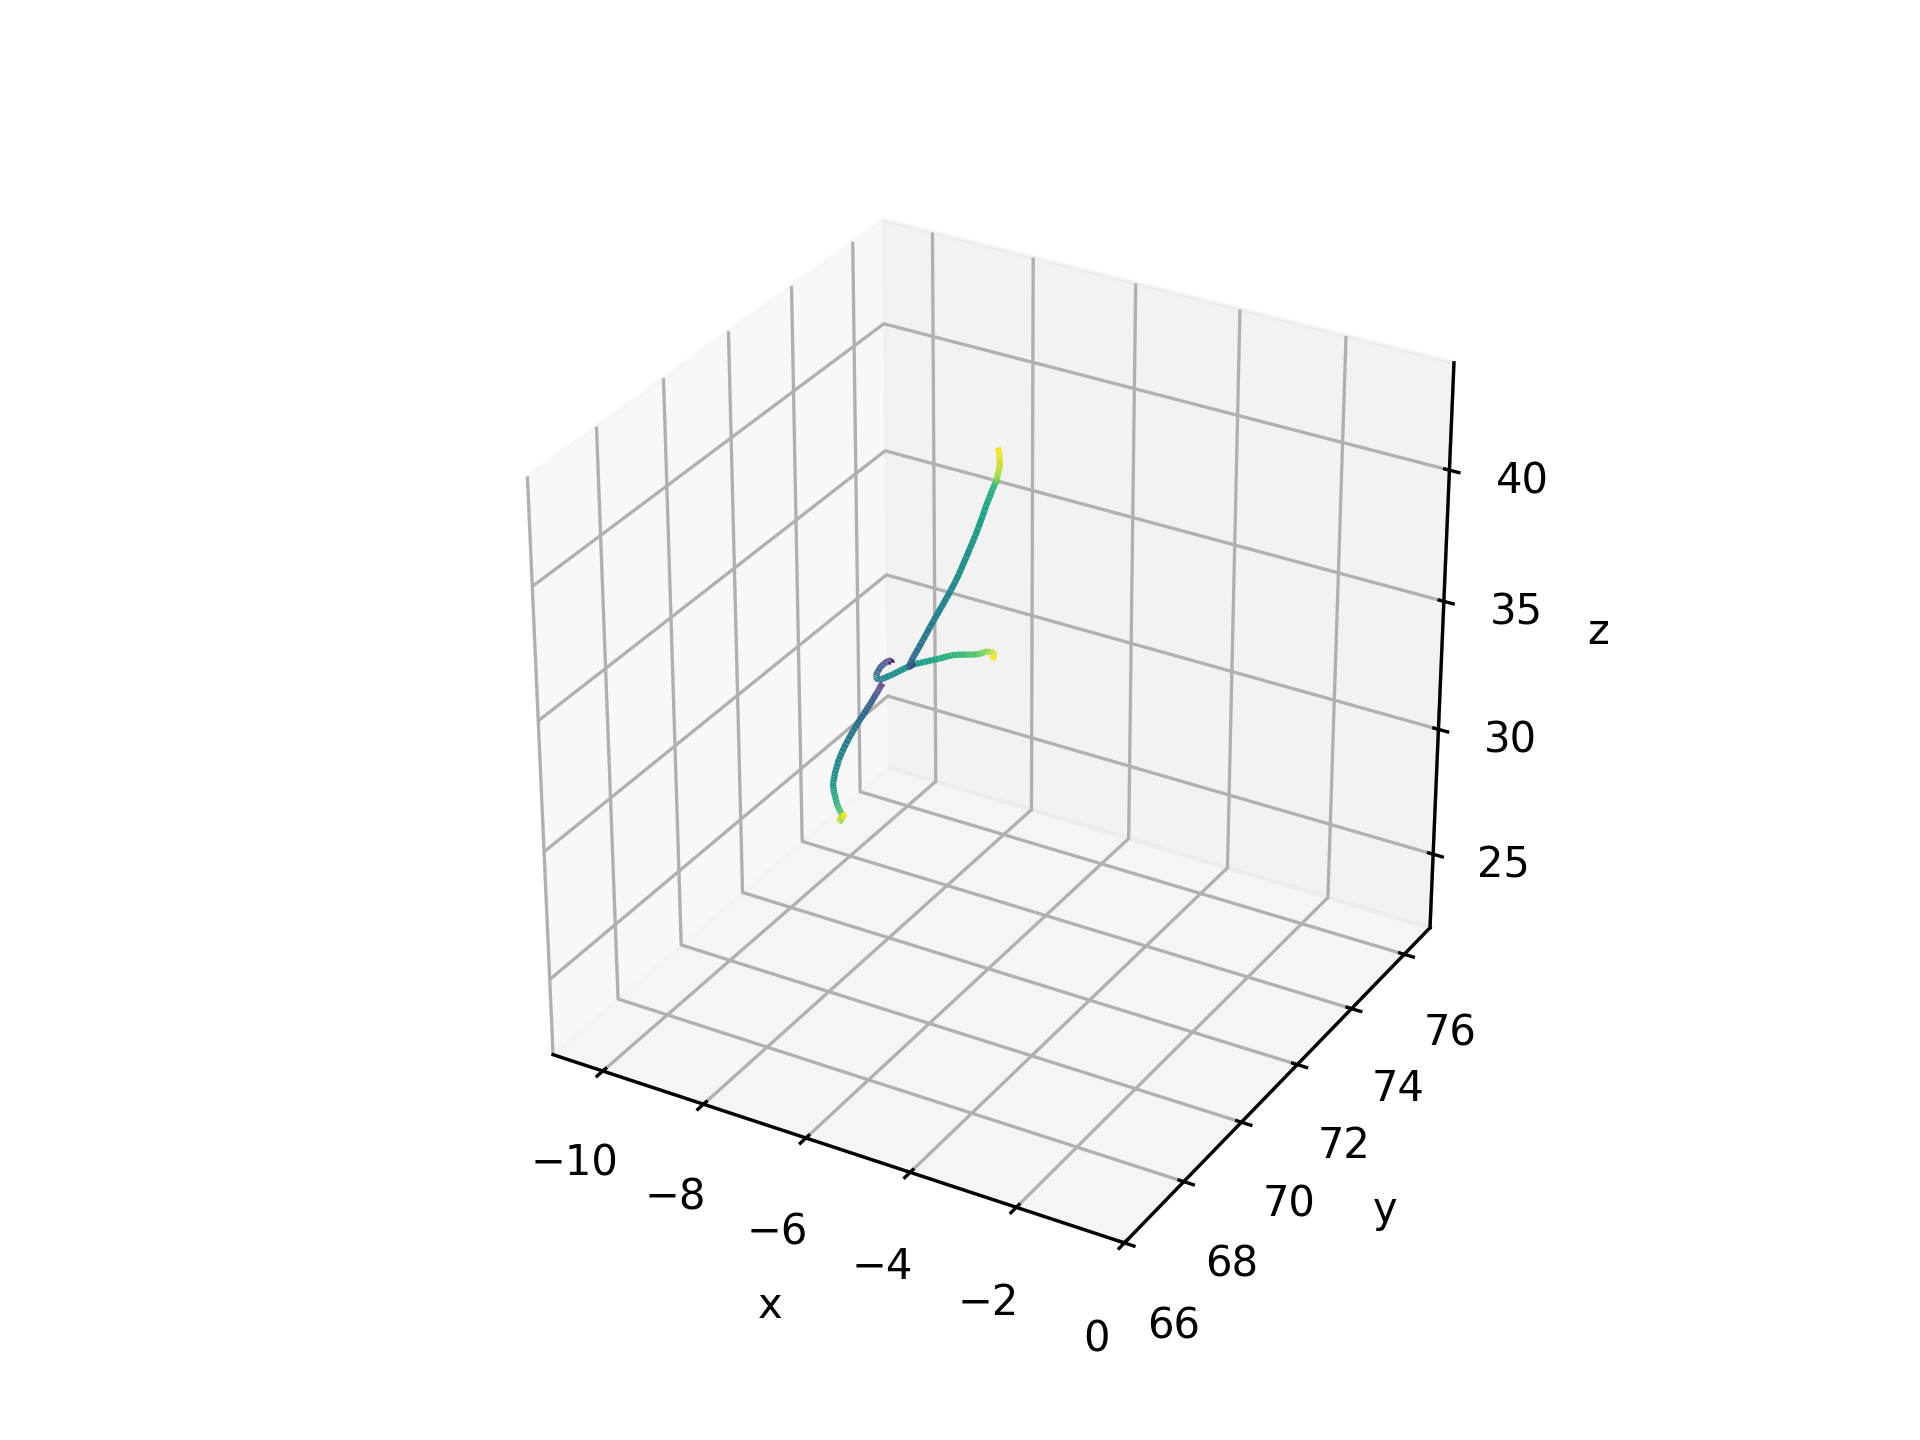
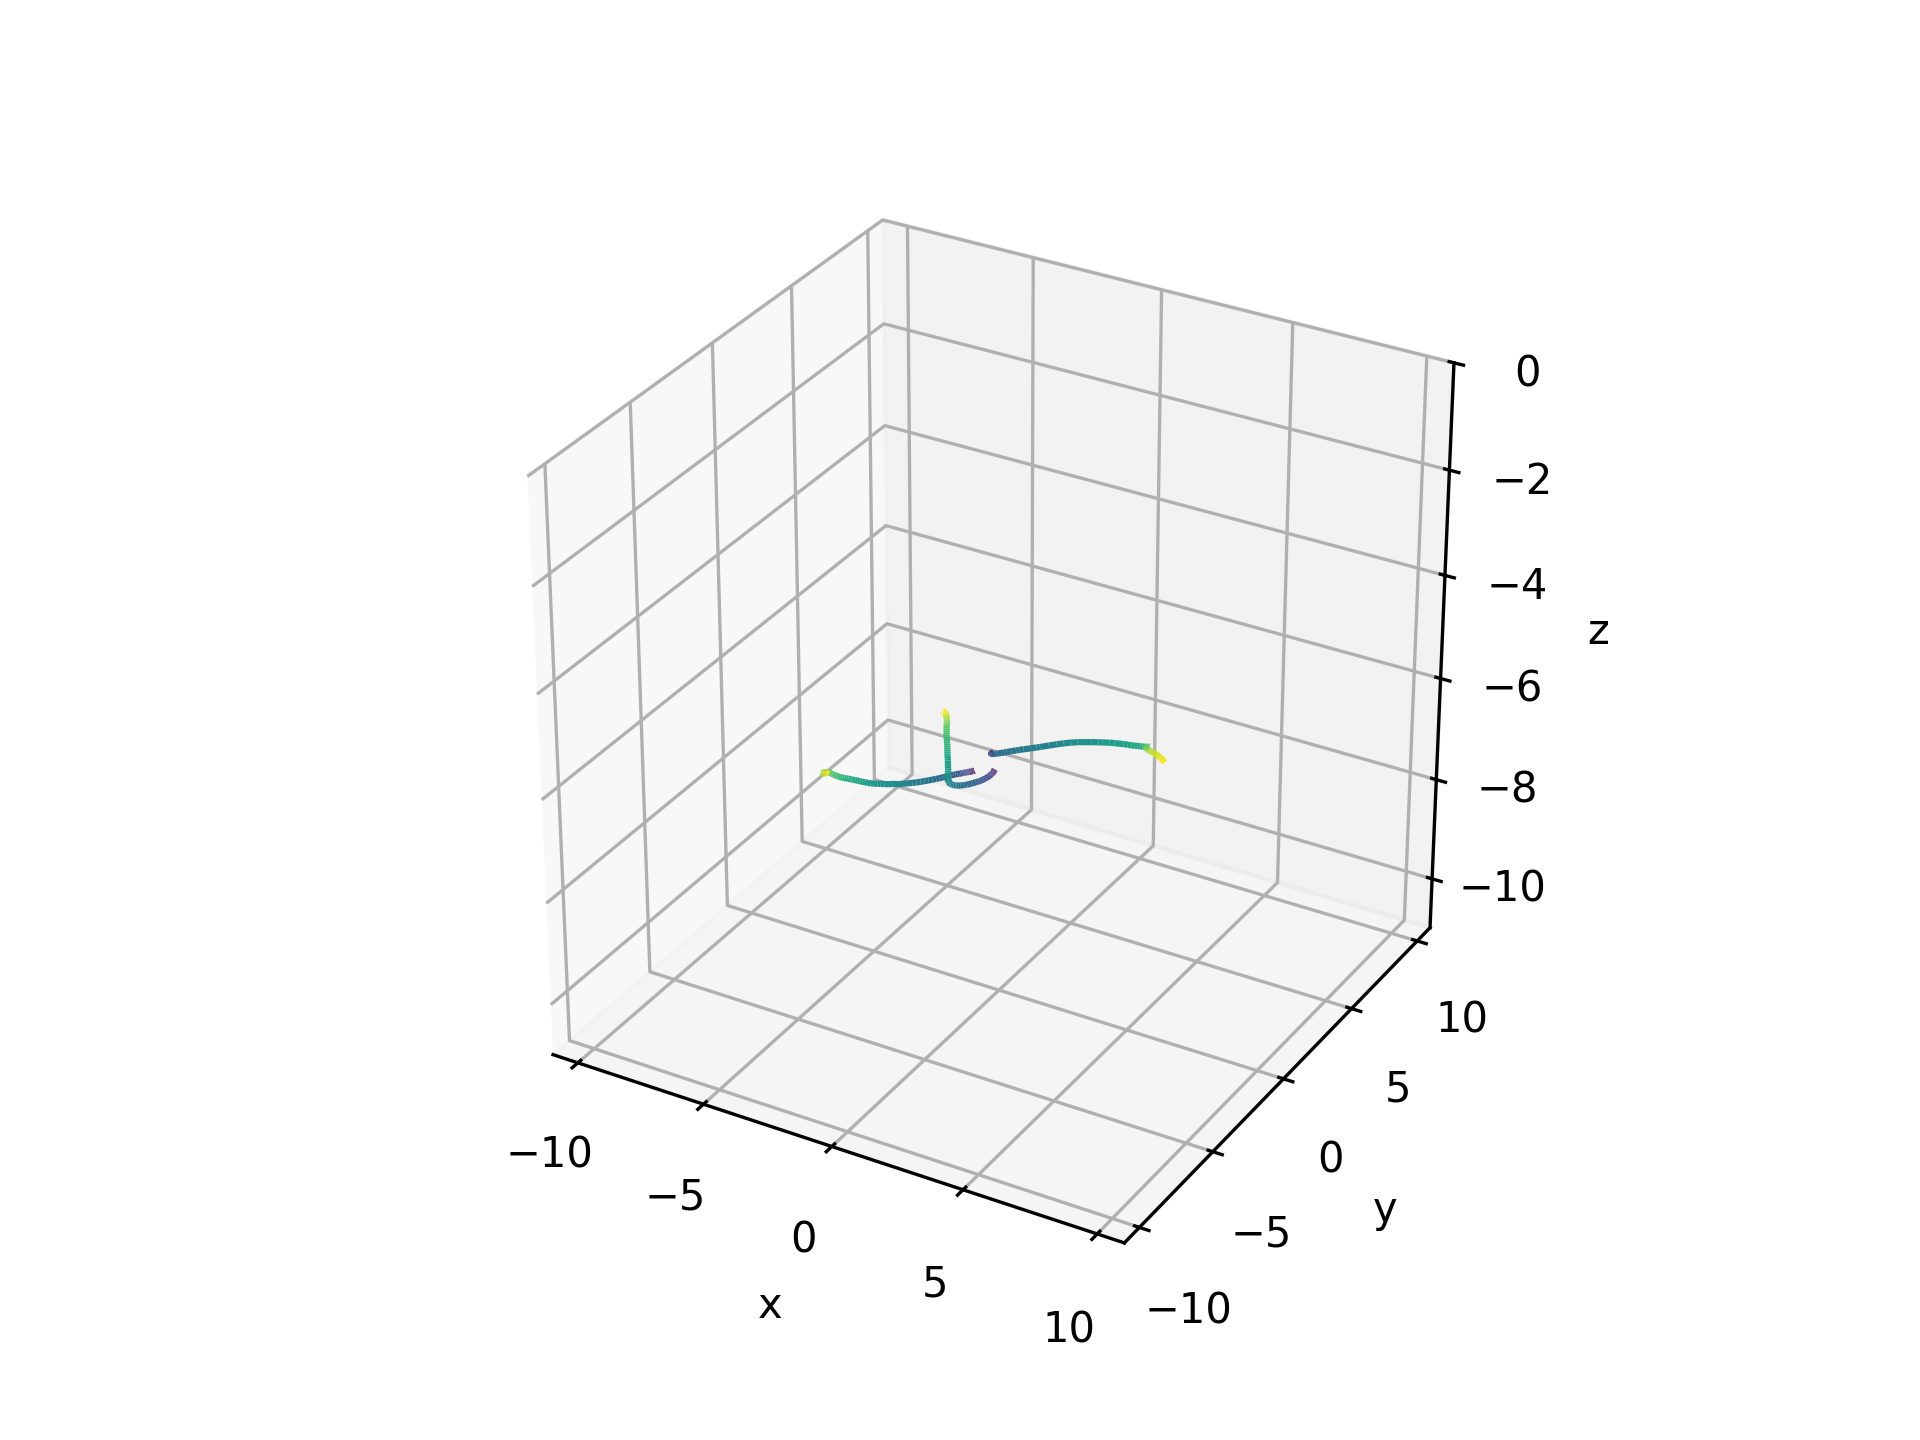
fix gradient plot

diff --git a/tests/test_visualization.py b/tests/test_visualization.py
@@ -581,13 +581,13 @@ class KinematicsPlottingTests(unittest.TestCase):
         plt.close()
 
         # Hand data plotted in 3d
-        traj, _ = aopy.data.get_kinematic_segments(preproc_dir, subject, te_id, date, [32], [81, 82, 83, 239], datatype='hand')
+        traj, _ = aopy.data.get_kinematic_segments(preproc_dir, subject, te_id, date, [32], [81, 82, 83, 239], datatype='manual_input')
         plt.figure()
         ax = plt.axes(projection='3d')
-        gradient_trajectories(traj[:3], bounds=[-10,0,60,70,20,40], ax=ax)
+        gradient_trajectories(traj[:3], bounds=[-10,10,-10,10,-10,0], ax=ax)
 
         filename = 'gradient_trajectories_3d.png'
-        savefig(docs_dir, filename)
+        savefig(docs_dir, filename, transparent=False)
         plt.close()
         
     def test_get_color_gradient_RGB(self):
